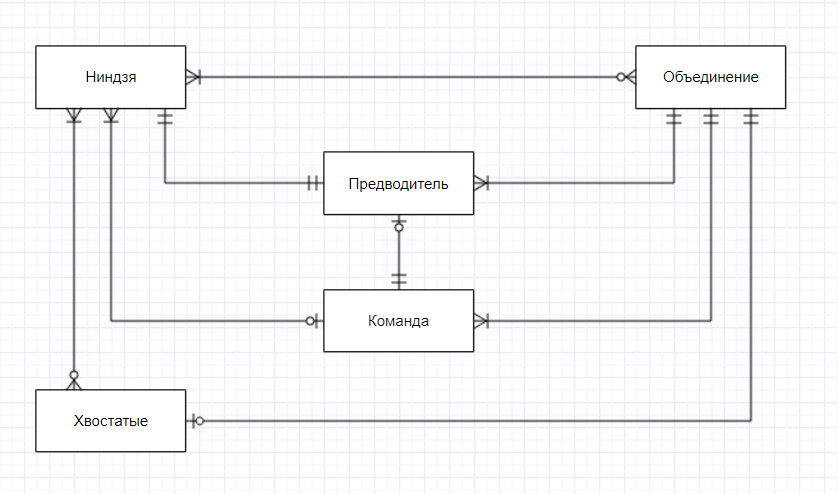
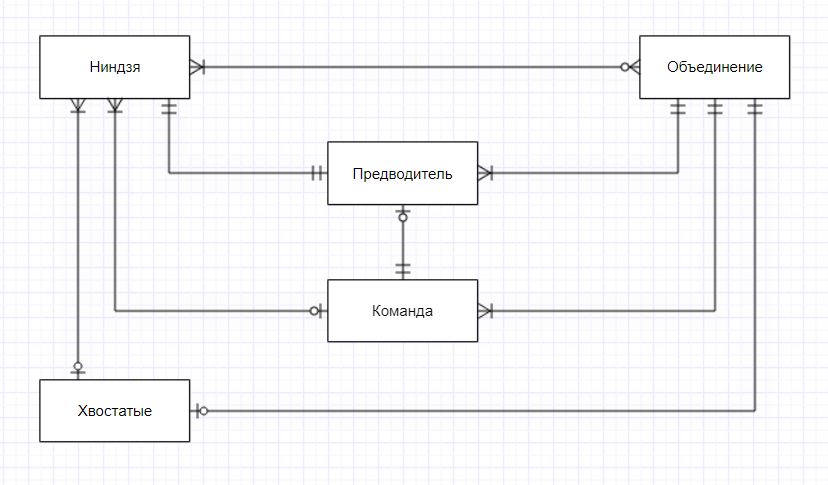
Fix

Changed region(s): [[0.0302, 0.0619, 0.9662, 0.9278], [0.0906, 0.8351, 0.1812, 0.866]]

diff --git a/README.md b/README.md
@@ -26,7 +26,7 @@
 
 #### Хвостатые
 Хвостатые - это звери, обладающие огромным запасом чакры. Хвостатые заключены в ниндзя, которые являются их носителями. 
-Когда носитель умирает, зверя переселяют в другого ниндзя. Некоторые ниндзя являются носителями нескольких хвостатых.
+Когда носитель умирает, зверя переселяют в другого ниндзя, поэтому у Хвостатых много носителей.
 Обычно хвостатые закреплены за какой то конкретной деревней, которая является объединением.
 
 ### Версионность
